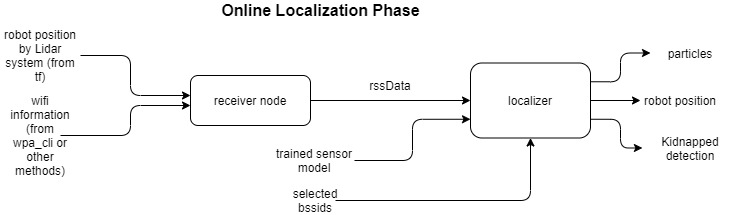
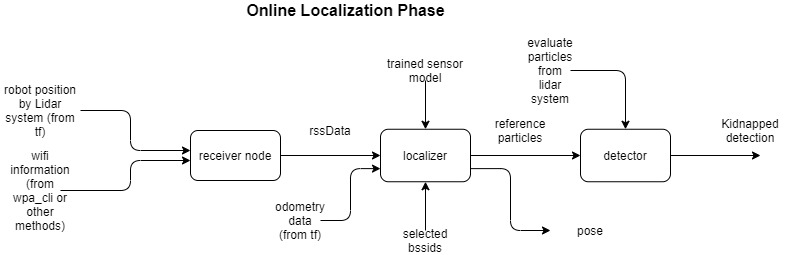
detector

diff --git a/src/general/localizer.py b/src/general/localizer.py
@@ -8,21 +8,18 @@ class Localizer:
     '''
     The class designed to localize the robot
     '''
-    '''
-    To-do: publish pose, particles
-    '''
     # Data folder 
     model_folder_ = ''
     
     # Topics
     input_topic_ = "" 
-    particle_topic_ = ""
+    particlecloud_topic_ = ""
     pose_topic_ = ""
     
     # Frames
-    output_frame_ = ""
+    map_frame_ = ""
     odometry_frame_ = ""
-    robot_frame_ = ""
+    base_frame_ = ""
     
     # Parameters
     x_min_ = None
@@ -37,7 +34,7 @@ class Localizer:
     
     # Subscribers/publishers
     rss_data_subscriber_ = None 
-    particle_publisher_ = None
+    particlecloud_publisher_ = None
     pose_publisher_ = None
     
     # Services
@@ -72,7 +69,7 @@ class Localizer:
         
         # Initialize subscribers/publishers
         self.rss_data_subscriber_ = rospy.Subscriber(self.input_topic_, rssData, self.rssDataCallBack)
-        self.particle_publisher_  = rospy.Publisher(self.particle_topic_, PoseArray, queue_size = 1)
+        self.particlecloud_publisher_  = rospy.Publisher(self.particlecloud_topic_, PoseArray, queue_size = 1)
         self.pose_publisher_      = rospy.Publisher(self.pose_topic_, PoseStamped, queue_size = 1)
         
         # Other variables
@@ -86,14 +83,14 @@ class Localizer:
         self.model_folder_ = rospy.get_param(ns + "/model_folder", "default_model_folder")
         
         # Topics 
-        self.input_topic_ = rospy.get_param("/localizer/topics/input_topic", "default_input_topic")
-        self.particle_topic_ = rospy.get_param("/localizer/topics/particle_topic", "default_particle_topic")
-        self.pose_topic_ = rospy.get_param("/localizer/topics/pose_topic", "default_pose_topic")
+        self.input_topic_ = rospy.get_param("/receiver/output_topic", "default_rss_data_topic")
+        self.particlecloud_topic_ = rospy.get_param("/localizer/topics/output/particlecloud_topic", "default_particlecloud_topic")
+        self.pose_topic_ = rospy.get_param("/localizer/topics/output/pose_topic", "default_pose_topic")
         
         # Frames
-        self.output_frame_ = rospy.get_param("/localizer/frames/output_frame", "default_output_frame")
-        self.odometry_frame_ = rospy.get_param("/localizer/frames/odometry_frame", "odom")
-        self.robot_frame_ = rospy.get_param("/localizer/frames/robot_frame", "base_link")
+        self.map_frame_ = rospy.get_param("/localizer/frames/map_frame", "default_map_frame")
+        self.odometry_frame_ = rospy.get_param("/localizer/frames/odometry_frame", "default_odom_frame")
+        self.base_frame_ = rospy.get_param("/localizer/frames/base_frame", "default_base_frame")
         
         # MCL parameters
         self.x_min_ = rospy.get_param("/localizer/parameters/x_min", -20)
@@ -112,7 +109,7 @@ class Localizer:
         """
         Find the odometry difference from robot base frame
         """      
-        odometry = callRosService(self.request_service_, transformRequestService, [self.odometry_frame_, self.robot_frame_])
+        odometry = callRosService(self.request_service_, transformRequestService, [self.odometry_frame_, self.base_frame_])
         print("Current odometry data:\n", odometry)
         current_odometry = np.array([odometry.x, odometry.y, odometry.theta])
         action = current_odometry - self.last_odometry_ 
@@ -168,7 +165,7 @@ class Localizer:
         """
         ps = PoseStamped()
         ps.header.stamp = rospy.Time.now()
-        ps.header.stamp = self.output_frame_
+        ps.header.stamp = self.map_frame_
         ps.pose = self.poseFromParticle(estimate)
         self.pose_publisher_.publish(ps)
     
@@ -181,11 +178,11 @@ class Localizer:
         """
         pa = PoseArray()
         pa.header.stamp = rospy.Time.now()
-        pa.header.stamp = self.output_frame_
+        pa.header.stamp = self.map_frame_
         for particle in particles:
             pose = self.poseFromParticle(particle)
             pa.poses.append(pose)
-        self.particle_publisher_.publish(pa)
+        self.particlecloud_publisher_.publish(pa)
     
     def poseFromParticle(self, particle, verbose=False):
         """

diff --git a/src/particle/motion.py b/src/particle/motion.py
@@ -51,16 +51,30 @@ class Motion:
         particles[:,2] += np.random.normal(loc=0.0,scale=self.rotational_noise_,size=n_particle)
         return particles
 
-if __name__ == "__main__":
-    translational_noise = 0.05 # ...
+def testMotionMOdel():
+    """
+    Check if motion model works properly
+    """   
+    # Noises
+    translational_noise = 0.15
     rotational_noise = 0.02 # 0.01744444444
-    particles = np.array([1, 2, 0.1, 2, 3, 0.4, 3, 3 ,0.5, 4.5, 7.1, 1.3]).reshape(4,3)
-    print(particles)
-    for particle in particles:
-        print("Particle:\n", particle)
-    action = np.array([0.2, 0.3 , -0.17])
-    print("Dummy particles:\n", particles)
+    
+    # Dummy particles
+    n_particles = 1000
+    particles = np.zeros((n_particles, 3))
+    particles[:,0:2] = np.random.uniform(low=[-20, -20], high=[20, 20], size=(n_particles, 2))
+    particles[:,2] = np.random.normal(loc=0.0, scale=np.math.pi/3, size=n_particles)
+    drawDistribution(particles)
+
+    # Dummy action
+    action = np.array([1, 1 , -0.17])
     print("Dummy action:\n", action)
-    model = Motion(translational_noise, rotational_noise)
-    propagated_particles = model.propagate(particles, action)
-    print("Propagated particles:\n", propagated_particles)
+    
+    # Dummy model
+    for i in range(10):
+        model = Motion(translational_noise, rotational_noise)
+        propagated_particles = model.propagate(particles, action)
+        drawDistribution(propagated_particles)
+    
+if __name__ == "__main__":
+    testMotionMOdel()

diff --git a/src/general/utils.py b/src/general/utils.py
@@ -9,6 +9,7 @@ import datetime
 import threading
 import numpy as np, copy
 import matplotlib.pyplot as plt
+import message_filters
 from geometry_msgs.msg import Pose2D
 from geometry_msgs.msg import Point
 from geometry_msgs.msg import Vector3
@@ -196,4 +197,18 @@ def drawDistribution(poses):
     ypoints = poses[:, 1]
     plt.plot(xpoints, ypoints, 'o')
     plt.show()
-    
+
+def compareParticles(references, evaluates):
+    """
+    Compare reference and evaluate particleclouds
+
+    Args:
+        references: n x 2 numpy array
+        evaluates: m x 2 numpy array
+    """
+    plt.plot(references[:, 0], references[:, 1], 'o', 'r')
+    plt.plot(evaluates[:, 0], evaluates[:, 1], 'x', 'b')
+    plt.legend(['references','evaluates'])
+    plt.xlabel('x/m')
+    plt.ylabel('y/m')
+    plt.show()

diff --git a/src/particle/filter.py b/src/particle/filter.py
@@ -50,7 +50,7 @@ class Filter:
     
     def initialize(self):
         """
-        Initialize particles uniformly among the two-dimensional space and assign equal weights
+        Initialize particles uniformly among the space and assign them equal weights
         """
         self.particles_ = np.zeros((self.n_particles_, 3))
         self.weights_ = np.ones(self.n_particles_) / float(self.n_particles_)
@@ -159,6 +159,7 @@ if __name__ == "__main__":
         arr[i,:] = i
     print(arr)
     print(arr[indexes])
-    
+
+
 
     

diff --git a/README.md b/README.md
@@ -58,6 +58,7 @@ Various ROS nodes:
     collector: subscribe to assembled rss/pose data and save them in different CSV files under data folder
     process: pick data from data folder and apply processing, then save the results in model folder
     localizer: subscribe to receiver output topic, then use results from offline training to estimate pose and determine if kidnapped situation happens or not
+    detector: compare the particles from laser based method and wifi based method to detect if robot is kidnapped
 
 # :rocket: Features #
 ## Data collection: ##
@@ -90,9 +91,7 @@ Run roslaunch with "process.launch" to process collected data.
 <div align="center" id="online"> 
 <img src="./img/online localization phase.jpg" alt="localization system" />
 </div> 
-The implementation of MCL has been put under folder "\src\particle\", where "motion.py" contains the implementation of motion model and "sensor.py" contains the implementation of sensor model.
-
-Motion model propagates particles based on odometry data, which is obtained by calling tf services.
+The implementation of MCL has been put under folder "\src\particle\", where "motion.py" contains the implementation of motion model and "sensor.py" contains the implementation of sensor model. Motion model propagates particles based on odometry data, which is obtained by calling tf services.
 
 # :white_check_mark: Notice #
 Before stating, you need have ROS (refer to link above) and related Python packages installed
